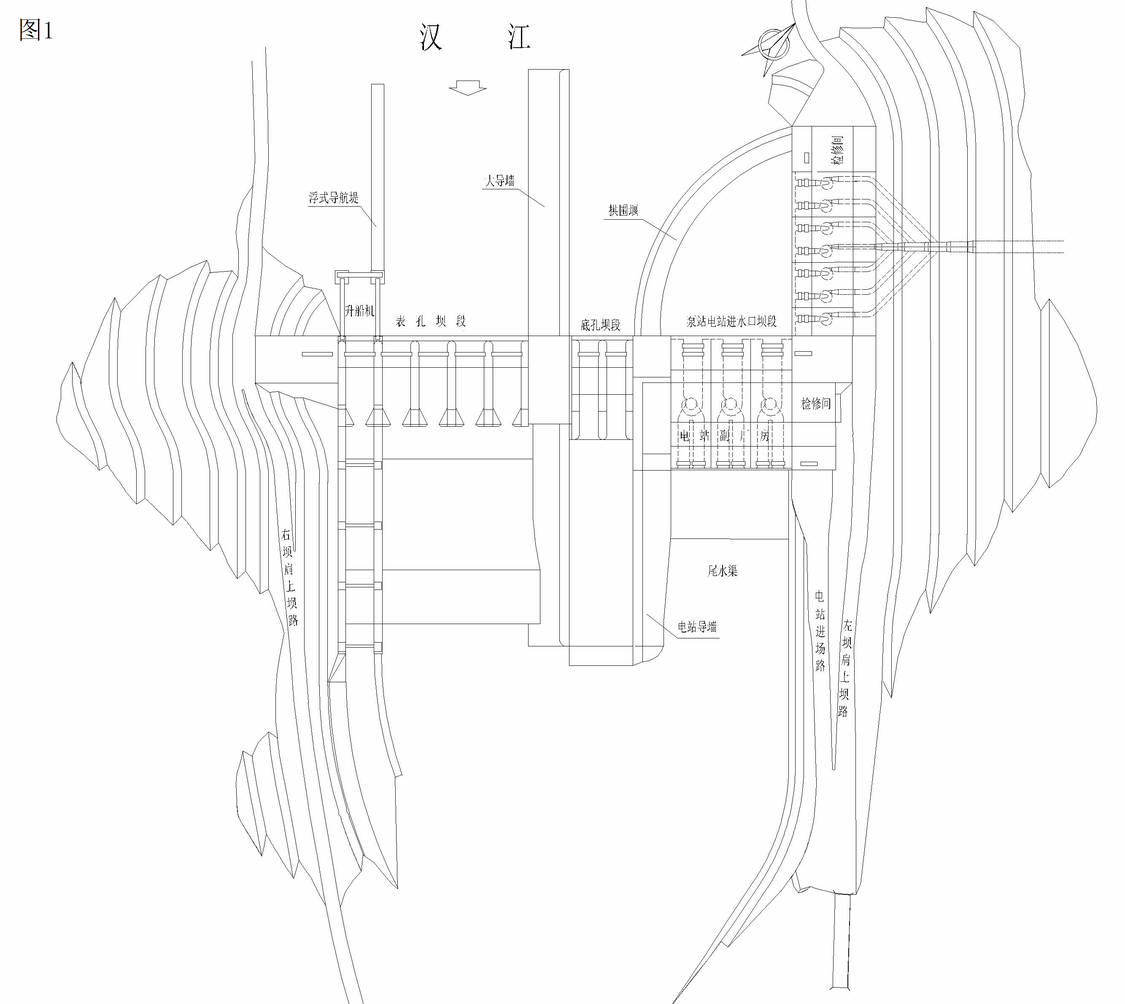
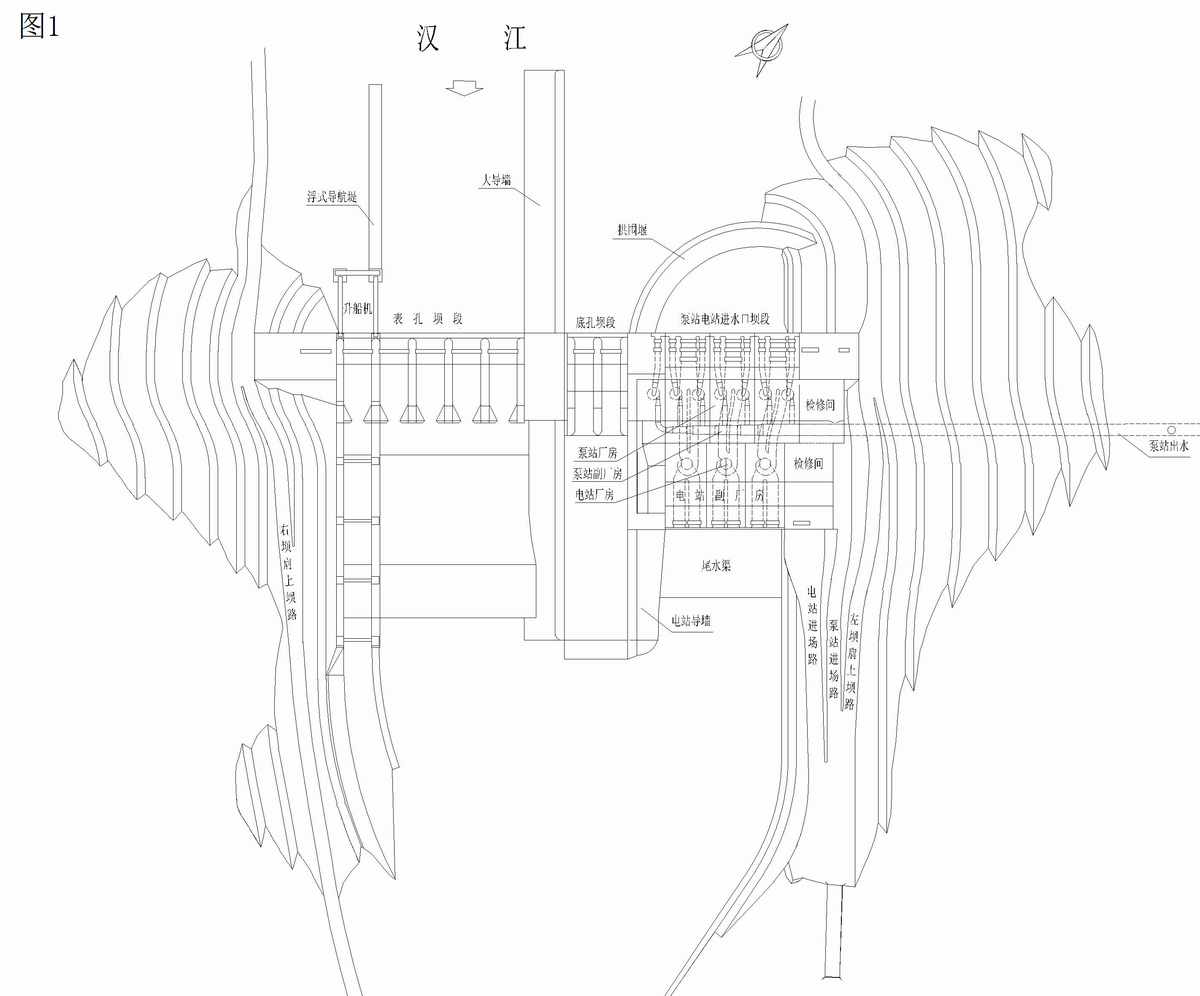
修改第5章

diff --git a/5yin-han-ji-wei-gong-cheng-gong-cheng-ji-zhu-wen-ti/56huang-jin-xia-shui-li-shu-niu-ji-zhu-wen-ti-yan-jiu.md b/5yin-han-ji-wei-gong-cheng-gong-cheng-ji-zhu-wen-ti/56huang-jin-xia-shui-li-shu-niu-ji-zhu-wen-ti-yan-jiu.md
@@ -1,28 +1,27 @@
 ##5.6.1枢纽布置研究
   
 1工程概况  
+黄金峡水利枢纽为汉江梯级开发的第一级，工程位于汉中市洋县境内的汉江黄金峡河段。水库回水至洋县东村,全长69.5km,为峡谷型水库。水库两岸山体雄厚,出露岩层以火成岩为主,透水性微弱，不存邻谷渗漏，库区有众多泉水高于水库正常蓄水位,水库成库条件良好,库岸稳定,渗漏问题不突出，淹没相对比较少,移民安置相对简单，具备良好的建库条件。
 
-黄金峡水利枢纽是引汉济渭工程的两个水源之一，也是汉江上游梯级开发规划的第一级。坝址位于汉江干流黄金峡锅滩下游2km处，距洋县62km，距汉中市135km。黄金峡水利枢纽多年平均供水量10亿m<sup>3</sup>，安装7台18.5MW水泵电动机组，泵站装机容量129.5MW；电站安装3台45 MW的水轮发电机组，装机容量135MW，航运为6级航道设100t升船机过坝。工程以供水为主，兼顾发电及航运等综合效益。  
-  
-引汉济渭工程为Ⅰ等大（1）型工程，黄金峡水利枢纽为引汉济渭的一部分，主要建筑物为2级。枢纽由大坝、泵站、电站、通航等建筑物组成，大坝为混凝土重力坝，坝高63m。大坝按100年一遇洪水设计，1000年一遇洪水校核，相应入库洪峰流量分别为18800 m<sup>3</sup>/s，26400 m<sup>3</sup>/s。  
-  
 黄金峡坝址位于基本对称的“V”型河谷，河谷宽200m，坝址两岸地形基本对称，左右岸坡自然边坡均在20～40度，大部分基岩裸露，地层主要为花岗片麻岩。左岸岩石强风化厚度10～13m，弱风化厚度20～27m；河床覆盖层厚6～12m，强风化厚度1～5m，弱风化厚度5～13m；右岸岩石强风化厚度8～9m，弱风化厚度25～27m。坝基共发育有7条小断层，对于重力坝，除倾向山体内的顺河向f3断层会对局部岩体的抗滑稳定产生影响外，其余断层对坝基抗滑稳定影响不大，具备修建重力坝条件。  
+
+黄金峡水利枢纽开发以供水为主，兼顾发电和航运。汉江洪水峰高量大，导流设计复杂、风险高，低水头、大流量泄洪是枢纽布置要解决的重点问题。
   
 2枢纽布置的原则和要求  
 
-在水利枢纽中合理地选择各建筑物的平面布置，对于枢纽的使用效能、施工的难易及工程造价等有着重要的意义，枢纽中各建筑物的布置直接影响到整个枢纽的应用。因此枢纽的布置应结合本工程的特点，按河流来水来沙、地质地形条件以及各建筑物的安全可靠、运用方便、经济合理等要求因地制宜进行的进行方案的选择。根据黄金峡水利枢纽河道狭窄、泄洪量大、兴利建筑物多的特点，拟定枢纽布置主要原则如下：  
+一般来说，在水利枢纽中合理地选择各建筑物的平面布置，对于枢纽的使用效能、施工的难易及工程造价等有着重要的意义，枢纽中各建筑物的布置直接影响到整个枢纽的应用。因此枢纽的布置应结合本工程的特点，按河流来水来沙、地质地形条件以及各建筑物的安全可靠、运用方便、经济合理等要求因地制宜进行的进行方案的选择。根据黄金峡水利枢纽河道狭窄、泄洪量大、兴利建筑物多的特点，拟定枢纽布置主要原则如下：  
 
 （1）应满足枢纽各个建筑物在布置上的要求，保证在设计标准的条件下正常运行。要避免枢纽的各个建筑物在运行期间相互干扰。  
 
 （2）尽量使一个建筑物发挥多种用途或临时建筑物和永久建筑物相结合，充分发挥综合效益。  
 
-（3）取水、输水建筑物应布置在用水侧，要保证运行可靠，取水水质良好。  
+（3）取水、输水建筑物应布置在输水侧，方便引水，同时要保证运行可靠，取水水质良好。  
 
 （4）泵站、电站靠近挡水建筑物布置以减少连接建筑物长度，从而减少水头损失和工程投资。进水口、泵站出水应水流平顺，电站尾水出流通畅。  
 
 （5）枢纽布置应结合导流统一规划，满足工程导流要求。  
 
-以上几条很难同时满足，尤其是电站、泵站、船闸对水流泥沙都有很严格的要求，因此，在枢纽布置时要抓住重点因素处理好相互之间的矛盾，以保证发挥较好综合效益。  
+以上几条很难同时满足，尤其是泵站、电站、船闸对水流泥沙都有很严格的要求，因此，在枢纽布置时要抓住重点因素处理好相互之间的矛盾，以保证发挥较好综合效益。  
 
 3枢纽布置方案及特点  
 
@@ -55,7 +54,7 @@
 
 4枢纽布置方案的比较  
 
-上述3种枢纽布置方案，方案一、三均采用两期导流方案，主要差异在于泵站布置位置不同；方案二采用过水围堰、一条隧洞导流方案，考虑将导流洞改建为泄洪洞，表孔减为4孔，其他布置基本与方案1相同。本文主要从主要建筑物布置、施工条件、工期、工程投资等方面进行综合比较，确定枢纽布置方案。  
+上述3种枢纽布置方案，方案一、三均采用两期导流方案，主要差异在于泵站布置位置不同；方案二采用过水围堰、一条隧洞导流方案，考虑将导流洞改建为泄洪洞，表孔减为4孔，其他布置基本与方案1相同。选择枢纽布置方案主要从主要建筑物布置、施工条件、工期、工程投资等方面进行综合比较。  
 
 （1）主要建筑物布置比较  
 
@@ -82,7 +81,7 @@
 
 经综合比选结论意见如下：  
 
-（1）3个方案都较好的解决了本工程大流量的泄洪问题，最大单宽流量不超过270m3/s，单宽流量在可接受的范围以内，消能问题可得到妥善解决。  
+（1）3个方案都较好的解决了本工程大流量的泄洪问题，最大单宽流量不超过270m^3/s，单宽流量在可接受的范围以内，消能问题可得到妥善解决。  
 
 （2）从施工来看方案一，三施工工序多衔接紧凑，方案二施工干扰少，度汛处理工作量大，临时工程量大，从施工条件来看方案一，三略优。  
 
@@ -94,17 +93,18 @@
 
 ##5.6.2坝址选择研究  
 
-汉江黄金峡水利枢纽可在洋县以下，石泉水库以上的黄金峡河段选择坝址，此段汉江峡谷岸坡陡峻，河谷狭窄，交通不便，难以满足枢纽泄洪和兴利建筑物协调布置、施工交通及场地要求，不宜在良心沟以上选择坝址。  
+汉江黄金峡水利枢纽可在洋县以下，石泉水库以上的黄金峡河段选择坝址。在黄金峡河段，汉江峡谷岸坡陡峻，河谷狭窄，交通不便，难以满足枢纽泄洪和兴利建筑物协调布置、施工交通及场地要求。因此，不宜在良心沟以上的黄金峡峡谷段选择坝址。  
 
 从发电和航运角度看，汉江干流各梯级电站水位衔接方式均为上级电站尾水与下级电站正常蓄水位衔接的方式，这样即可在满足发电的前提下同时使上下游航运得以衔接。黄金峡下游石泉电站正常蓄水位为410.0m，所以从河道高程看，良心沟断面以上由于河床高程已接近410.0m高程，与石泉电站库尾回水无法衔接不满足通航要求，也不利于电站水位的衔接而下游至高白沙断面以下河床高程在400.0m以下已进入石泉水电站死水位以下，工程施工难度和投资都会显著增大。  
 
-故坝址选址范围在综合考虑工程布置、发电和航运等因素的基础上，最终确定在良心沟以下至高白沙河段长约6km范围内。其选址河段范围与汉江上游干流梯级开发规划阶段确定的选址范围基本一致。  
+故坝址选址范围在综合考虑工程布置、发电和航运等因素的基础上，最终确定在良心沟以下至高白沙河段长约6km范围内。其选址河段范围与汉江上游干流梯级水电开发规划确定的选址范围基本一致。故此，在良心沟至高白沙河段范围内自上而下选择了史家村，带阳滩，懒人床，高白沙四个坝址。  
 
-汉江上游干流梯级开发规划阶段在良心沟至高白沙河段范围内自上而下选择了史家村，带阳滩，懒人床，高白沙四个坝址。  
-
-项目建议书阶段设计根据规划成果及现场地形条件和勘测结果又通过结合考虑调水工程的需要, 选择了带阳滩坝址作为推荐坝址。  
-
+其中史家村，带阳滩，懒人床三个坝址岩性单一（花岗片麻岩），完整性良好，构造简单；高白沙坝址为混合岩，岩性复杂，完整性差，构造相对发育。
 本次设计，根据审查意见对项建阶段选择的带阳滩（上坝址）和懒人床（下坝址）两个坝址进行进一步比选，两坝址相距约1.4km。两坝址地质条件、枢纽布置形式及施工条件都基本相同，坝址比选采用混凝土重力坝为设计代表坝型进行比选。  
+
+史家村坝址河谷宽度240m，上距良心沟400m，下距史家沟约260m。河道顺直呈较平直开阔的“V”型河谷，因其距史家村较近故施工场地布置条件较好，从地形条件看具备建坝条件。但其上游有一较大洪积扇，右坝肩处有一小冲沟发育，从地质条件看其覆盖层深厚，地质条件复杂，建坝条件较差。而自懒人床断面以下至高白沙段，河道均处于中低山区，沿河能建坝的地方较多，但多数河谷宽度过宽，没有理想的建坝条件。  
+
+因此，重点选择了带阳滩（上坝址）和懒人床（下坝址）两个坝址进行比选(两方案的正常蓄水位均为450.0m)，两坝址相距约1.4km。地质条件、枢纽布置形式及施工条件都基本相同，坝址比选中采用混凝土重力坝为设计代表坝型进行比选。  
 
 （1）上坝址地质、地形条件  
 
@@ -157,57 +157,11 @@
 
 3）下坝址枢纽布置方案比选  
 
-下坝址枢纽布置综合经济技术比较见表4-2-1。
+下坝址枢纽布置综合经济技术比较见表5.6.2-1。
 
+            下坝址方案综合经济技术比较表
 
-
-下坝址方案综合经济技术比较表
-表4-2-1
-项    目	比   选   方   案
-	一字布置	联合布置
-水库特征水位	汛限水位(m)	448.0	448.0
-	正常蓄水位(m)	449.78	449.78
-	设计洪水位(m)	448.0	448.0
-	校核洪水位(m)	452.90	451.17
-	泵站厂房及动能参数	型式：河床式地面厂房
-装机容量： 138 MW
-总扬程：H＝119.0m	型式：河床式地面厂房
-装机容量： 138 MW
-总扬程：H＝119.0m
-	电站厂房及动能参数	型式：河床式地面厂房
-装机容量：135MW	型式：坝后式地面厂房
-装机容量：135MW
-枢纽布置	拦河坝	坝顶高程：454.50m
-最大坝高：69.50m
-坝顶宽度：25.00m
-坝顶长度：465.25m	坝顶高程：452.50m
-最大坝高：67.50m
-坝顶宽度：25.00m
-坝顶长度：416.75m
-	泄洪建筑物	底孔个数和尺寸：2－10×10（个－m）单宽流量238.4m³/s	底孔个数和尺寸：2－10×10（个－m）单宽流量227.3m³/s
-		表孔个数和尺寸：5－15×24（个－m）单宽流量258.6m³/s	表孔个数和尺寸：7－15×22（个－m）单宽流量193.1m³/s
-枢杻主要工程量	土石方开挖：227.1万m3
-混凝土：123.1万m3
-钢筋：3.3万t	土石方开挖：231.2万m3
-混凝土：128.5万m3
-钢筋：3.6万t  
-
-
-工程施工	优点：  
-
-1.基坑范围小，纵向大导墙长度短；
-2.泵站、电站独立布置，施工干扰小。
-缺点：
-1. 泄洪建筑物宽度小，导墙墙顶高程高；
-2.电站位于河床布置，施工道路布置条件较差；	优点：
-1.泄洪建筑物宽度大，导墙墙顶高程低；
-2.泵站、电站靠近河床布置，施工道路布置条件好；
-缺点：
-1.基坑范围大，纵向大导墙长度长；
-2.泵站、电站联合布置，施工干扰大。
-工程投资	主体工程投资	22.99亿元	23.96亿元
-	投资差额	-0.97亿元	0   
-
+![下坝址方案比较表](/img/2018-2-27-13-28-04.jpg  "表5.6.2-1")
 
 从上表比较可看出，下坝址河谷较宽两种布置形式均不存在制约因素，联合布置方案由于泵站、电站布置紧凑，因此可充分利用河床宽度布置泄洪建筑物，泄洪建筑物单宽流量较小，对下游消能有利，坝顶高程及坝高较低。但由于河谷宽度宽，其挡水坝段长度长，且泵站、电站布置位于河床，导致混凝土回填量大。
 一字布置方案泵站、电站两建筑物均采用河床式厂房沿坝轴线并列布置，泄洪建筑物布置宽度相对受限，因此坝顶高程及坝高均较联合布置方案高，但由于泵站、电站两建筑物兼做挡水建筑物替换了部分挡水坝段，且泵站厂房基础较高靠近岸坡布置可减少基础混凝土回填量，因此从整体看一字布置方案虽然坝高较高，但整体工程量较联合布置方案节省。  
@@ -250,18 +204,13 @@
 
 （4）水库淹没损失  
 
-由于上、下坝址仅相距1.4km，经水库淹没损失调查，下坝址移民人数、淹没林地，淹没耕地、林地等均有所增加。另外，下坝址道路线路长工程占地也较上坝址大。因此上坝址淹没补偿总投资15.53亿元，下坝址淹没补偿总投资15.59亿元，上坝址比下坝址淹没补偿总投资少600万元。详见下表4-2-2。
-上、下坝址水库淹没损失主要指标比较表  
+由于上、下坝址仅相距1.4km，经水库淹没损失调查，下坝址移民人数、淹没林地，淹没耕地、林地等均有所增加。另外，下坝址道路线路长工程占地也较上坝址大。因此上坝址淹没补偿总投资15.53亿元，下坝址淹没补偿总投资15.59亿元，上坝址比下坝址淹没补偿总投资少600万元。详见下表5.6.2-2。  
 
-表4-2-2
-            坝址
-项目	上坝址	下坝址
-移民	5001人	5043人
-淹没耕地	4899.96亩	4969.96亩
-淹没林地	6995.41亩	7405.41亩
-淹没房屋	25.32万m2	25.95万m2
-永久占地	546.32亩	635.13亩
-临时占地	1718.06亩	1883.09亩  
+        上、下坝址水库淹没损失主要指标比较表  
+
+表5.6.2-2  
+
+![上、下坝址淹没比较表](/img/2018-2-27-13-51-55.jpg  "表5.6.2-2")
 
 （5）引水、发电条件比较  
 
@@ -279,29 +228,11 @@
 
 根据枢纽布置，上坝址土石方开挖量282.9万m3，混凝土104.89万m3，钢筋制安2.93万t，下坝址土石方开挖量269.98万m3，混凝土125.62万m3，钢筋制安3.23万t，经过资估算，上坝址方案的工程部分投资费用为21.75亿元，下坝址方案的工程部分投资费用为22.99亿元。上坝址方案比下坝址方案投资少1.24亿元，相对较优。  
 
-上、下坝址枢纽主要工程量比较表
-表4-2-3
-编号	工程或费用名称	单位	上坝址	下坝址	备 注
-一、大坝部分
-1	边坡石方开挖	万m3	147.17	95.5	
-2	河床岩石及砂卵石开挖	万m3	43.90	61.66	
-3	混凝土	万m3	74.68	75.69	
-4	钢筋制作与安装	万t	2.00	2.08	
-5	钢材	万t	0.44	0.46	
-6	固结灌浆	m	15029	18634	
-7	帷幕灌浆	m	8765	9182	
-二、泵站、电站部分
-1	石方开挖	万m3	46.18	85.62	
-2	石方洞挖	万m3	2.83	2.83	
-3	混凝土及钢筋混凝土	万m3	29.60	47.51	
-4	钢筋制作与安装	万t	1.25	1.24	
-5	钢材	万t	0.49	0.50	
-二、施工部分
-1	土石方开挖	万m3	48.78	46.59	
-2	混凝土	万m3	5.5	4.1	
-3	石渣填筑	万m3	27.57	45.73	
-4	铅丝笼块石	万m3	2.08	2.97	
-5	堰体拆除	万m3	33.91	55.89  
+                         上、下坝址枢纽主要工程量比较表
+表5.6.2-3  
+
+![上、下坝址淹没比较表](/img/2018-2-27-13-55-32.jpg  "表5.6.2-3")
+
 	
 （9）比较结论  
 
@@ -313,12 +244,6 @@
 此外从对外交通工程与工程淹没损失方面比较下坝址均较上坝址略高。从水土保持及环境影响来讲，上下坝址条件相当，下坝址稍优。  
 
 综合以上因素最终选择上坝址作为选定坝址。  
-
-水库枢纽的选址上、下坝址综合经济技术比较见表4-2-4。  
-大坝选址综合经济技术比较表  
-表4-2-4  
-
-
 
 
 ##5.6.3高扬程、大流量的水泵选型研究  

diff --git a/5yin-han-ji-wei-gong-cheng-gong-cheng-ji-zhu-wen-ti/51gong-cheng-she-ji-gai-kuang.md b/5yin-han-ji-wei-gong-cheng-gong-cheng-ji-zhu-wen-ti/51gong-cheng-she-ji-gai-kuang.md
@@ -2,27 +2,27 @@
 
 引汉济渭工程在汉江干流黄金峡和支流子午河分别修建水源工程黄金峡水利枢纽和三河口水利枢纽蓄水，在黄金峡水利枢纽左岸布置黄金峡泵站和电站，抽干流水通过黄三隧洞输水至三河口水利枢纽坝后右岸汇流池，所抽水通过汇流池直接进入秦岭输水隧洞送至关中地区，多余水量根据三河口水库的蓄水需要经汇流池由三河口泵站抽水入三河口水库存蓄，当黄金峡泵站抽水流量不满足关中地区用水需要时，由三河口水库放水补充，所放水经汇流池进入秦岭输水隧洞送至关中地区。  
 
-黄金峡水利枢纽：坝址位于汉江干流黄金峡锅滩下游2km处，枢纽由拦河坝、泄洪建筑物、泵站、水电站及升船机等组成。拦河坝为混凝土重力坝，最大坝高64.3m，总库容2.36亿m3，调节库容0.92亿m3，正常蓄水位450m，死水位440m，泵站设计抽水流量75m3/s，电站装机容量135MW，多年平均发电量2.98亿kw•h。  
+黄金峡水利枢纽：坝址位于汉江干流黄金峡锅滩下游2km处，枢纽由拦河坝、泄洪建筑物、泵站、水电站及升船机等组成。拦河坝为混凝土重力坝，最大坝高64.3m，总库容2.36亿m^3，调节库容0.92亿m^3，正常蓄水位450m，死水位440m，泵站设计抽水流量75m^3/s，电站装机容量135MW，多年平均发电量3.5亿kw•h。  
 
-三河口水利枢纽：坝址位于佛坪县大河坝乡三河口村下游2km处，枢纽由拦河坝、泄洪放空建筑物、坝后泵站及坝后电站等组成。拦河坝初选为碾压混凝土重力坝，最大坝高138.3m，总库容6.81亿m3，调节库容5.5亿m3，正常蓄水位643m，汛限水位641m，死水位588m，坝后泵站设计抽水流量50m3/s，多年平均抽水量0.9亿m3，设计总扬程95.1m，安装6台水泵电动机组，泵站总装机功率约60.6MW。坝后电站装机容量45MW，多年平均发电量1.08亿kw•h。  
+三河口水利枢纽：坝址位于佛坪县大河坝乡三河口村下游2km处，枢纽由拦河坝、泄洪放空建筑物、坝后泵站及坝后电站等组成。拦河坝初选为碾压混凝土重力坝，最大坝高145m，总库容7.1亿m^3，调节库容6.6亿m^3，正常蓄水位643m，汛限水位641m，死水位588m，坝后泵站设计抽水流量18m^3/s，设计扬程93.1m，安装2台水泵电动机组，装机容量24MW，两台水轮机发电机组装机容量40MW，多年平均发电量1.22亿kw•h。  
 
-秦岭输水隧洞：进口位于黄金峡水利枢纽左岸泵站出水口，出口位于渭河一级支流黑河右侧支沟黄池沟内，全长98.3km，设计流量70m3/s，纵坡1/2500，钻爆法施工横断面为马蹄形，断面尺寸7.0×7.0m，TBM法施工断面为圆型，断面直径7.16m/8.03m。
+秦岭输水隧洞：进口位于黄金峡水利枢纽左岸泵站出水口，出口位于渭河一级支流黑河右侧支沟黄池沟内，全长98.3km，设计流量70m^3/s，纵坡1/2500，钻爆法施工横断面为马蹄形，断面尺寸7.0×7.0m，TBM法施工断面为圆型，断面直径7.16m/8.03m。
 
 ##5.1.1工程任务及规模  
 
 建设引汉济渭工程的任务是向渭河沿岸重要城市、县城、工业园区供水，逐步退还挤占的农业与生态用水，缓解城市与农业、生态用水矛盾，为陕西省水资源配置提供条件。受水对象为沿渭河两岸的5个重点城市、13个县城、8个工业园区。  
   
-根据设计水平年2030年受水区供需平衡分析，在满足95%供水保证率条件下，引汉济渭工程需要调入关中水量15亿m3。考虑关中用水量逐步增长过程，进行分期调水，2020年调水10亿m3，2030年调水15亿m3。  
+根据设计水平年2030年受水区供需平衡分析，在满足95%供水保证率条件下，引汉济渭工程需要调入关中水量15亿m^3。考虑关中用水量逐步增长过程，进行分期调水，2020年调水10亿m^3，2030年调水15亿m^3。  
 
 ##5.1.2工程等别  
 
-引汉济渭工程设计调水流量为75m3/s，年调水量15亿m3，为特别重要的调水工程，属Ⅰ等工程。黄金峡水利枢纽主要建筑物大坝、河床式电站厂房和通航建筑物挡水部分为2级建筑物，非挡水部分为3级建筑物；黄金峡泵站主要建筑物为1级建筑物；黄三隧洞为1级建筑物；三河口水利枢纽主要建筑物大坝级别因坝高大于130m，建筑物级别提高为1级建筑物，电站为4级建筑物，泵站为1级建筑物；秦岭隧洞为1级建筑物。  
+引汉济渭工程设计调水流量为70m^3/s，年调水量15亿m^3，为特别重要的调水工程，属Ⅰ等工程。黄金峡水利枢纽河床式泵站、电站厂房为一级建筑物，大坝、泄洪、通航建筑物挡水部分为2级建筑物，非挡水部分为3级建筑物；三河口水利枢纽主要建筑物大坝级别因坝高大于130m，建筑物级别提高为1级建筑物，引水系统为为1级建筑物，泵站、电站厂房按1级泵站设计；秦岭输水隧洞为1级建筑物。  
 
 ##5.1.3黄金峡水利枢纽  
 
 为引汉济渭工程两个水源工程之一，枢纽位于洋县境内汉江干流黄金峡峡谷中，枢纽由挡水大坝、泄洪建筑物、泵站、电站、通航建筑物等组成。  
 
-黄金峡水利枢纽水库总库容2.29亿m3，调节库容为0.69亿m3；泵站设计抽水流量70m3/s，总装机功率129.5MW；坝后电站总装机容量135MW；通航建筑物通航吨位为100t级。 
+黄金峡水利枢纽水库总库容2.29亿m^3，调节库容为0.69亿m^3；泵站设计抽水流量70m^3/s，总装机功率129.5MW；坝后电站总装机容量135MW；通航建筑物通航吨位为100t级。 
 
 根据《防洪标准》（GB50201-94）和《水利水电工程等级划分及洪水标准》（SL252-2000）、《泵站设计规范》（GB50265-2010）以及《船闸水工建筑物设计规范》（JTJ307-2001）的有关规定，确定枢纽各建筑物级别及防洪标准如下：  
 
@@ -36,7 +36,7 @@
 
 为引汉济渭工程两个水源工程之一，枢纽地处汉中市佛坪县与安康市宁陕县交界处的子午河中游峡谷段，枢纽由大坝、坝身泄洪放空系统、坝后泵站、电站和连接洞等组成。  
 
-三河口水利枢纽水库总库容为7.1亿m3，调节库容6.6亿m3，坝后泵站设计抽水流量18m3/s，总装机功率27MW，坝后电站装机容量为45MW，引水（送入秦岭隧洞）设计最大流量70m3/s，下游生态放水设计流量2.71m3/s，拦河大坝初选为碾压混凝土拱坝，最大坝高145m。  
+三河口水利枢纽水库总库容为7.1亿m^3，调节库容6.6亿m^3，坝后泵站设计抽水流量18m^3/s，装机容量24MW，发电装机容量为60MW，引水（送入秦岭隧洞）设计最大流量70m^3/s，下游生态放水设计流量2.71m^3/s，拦河大坝为碾压混凝土拱坝，最大坝高145m。  
 
 根据《防洪标准》（GB50201-94）和《水利水电工程等级划分及洪水标准》（SL252-2000）以及《泵站设计规范》（GB50265—2010）的有关规定，确定枢纽各建筑物级别及防洪标准如下：  
 
@@ -48,7 +48,7 @@
 
 ##5.1.5秦岭输水隧洞  
 
-秦岭输水隧洞是连通调水区和受水区的输水工程，设计输水流量70m3/s，根据《调水工程设计导则》（SL430-2008）、《防洪标准》（GB50201-94）、《水利水电工程等级划分及洪水标准》(SL252-2000)有关规定，确定秦岭隧洞主要建筑物级别为1级，次要建筑物级别为3级，临时建筑物级别为4级。  
+秦岭输水隧洞是连通调水区和受水区的输水工程，设计输水流量70m^3/s，根据《调水工程设计导则》（SL430-2008）、《防洪标准》（GB50201-94）、《水利水电工程等级划分及洪水标准》(SL252-2000)有关规定，确定秦岭隧洞主要建筑物级别为1级，次要建筑物级别为3级，临时建筑物级别为4级。  
 
 隧洞按50年一遇洪水标准设计，200年一遇洪水标准校核，施工支洞及退水洞按20年一遇洪水设计，后期作为永久运营检修通道的越岭段3#和6#施工支洞按50年一遇洪水设计。  
 
